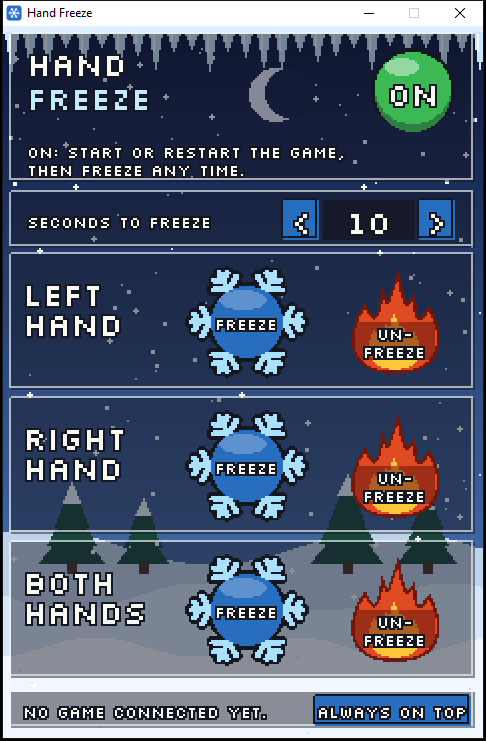
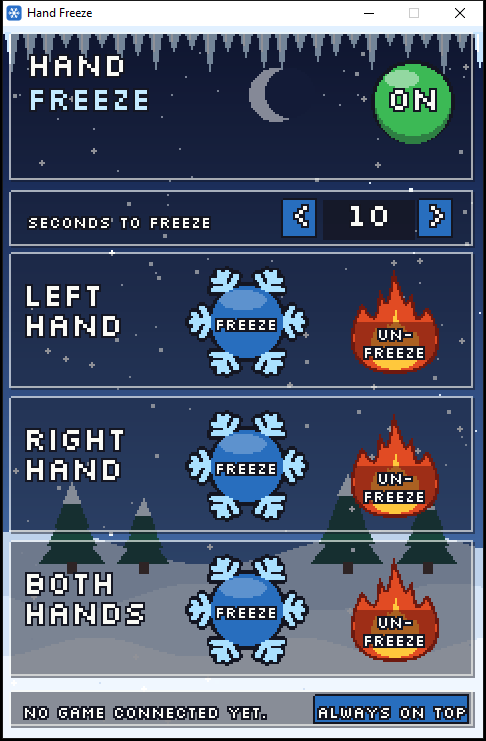
Hand Freeze: fewer words, centred number and arrows, no colour leaks
Only the hint 'Switch on before the game starts' is left (shown while off).
The seconds number and arrows sit centred in their boxes, button fills stay
inside their outlines, the switch sits lower and its ON/OFF is centred.

diff --git a/app/FreezeUi.cs b/app/FreezeUi.cs
@@ -23,7 +23,7 @@ class FreezeUi : Form {
     // ---- canvas and layout (canvas pixels; the window shows each one as SCALE x SCALE screen pixels) --------------
     const int CANVAS_W = 240, CANVAS_H = 356;   // must match make_backgrounds.py W, H
     const int HEADER_H = 74;
-    const int SWITCH_X = 205, SWITCH_Y = 32, SWITCH_R = 19;
+    const int SWITCH_X = 205, SWITCH_Y = 38, SWITCH_R = 19;
     const int SECONDS_Y = 90, BOX_H = 20, MINUS_X = 140, NUMBER_X = 160, NUMBER_W = 46, PLUS_X = 208, ARROW_W = 18;
     const int ROW_Y0 = 114, ROW_H = 72, LABEL_X = 10, FLAKE_X = 122, FLAME_X = 196, FLAKE_R = 28;
     const int FLAME_DROP = 5;                   // the flame sits a little low, so its tall tongues stay inside the row
@@ -263,8 +263,7 @@ class FreezeUi : Form {
         Panel(g, 4, 4, CANVAS_W - 8, HEADER_H);
         Say(g, "HAND", BIG, 12, 9, Paper);
         Say(g, "FREEZE", BIG, 12, 26, Lighter(Ice, 0.3f));
-        Say(g, on ? "On: start or restart the game," : "Off: no game is touched.", SMALL, 12, 58, Paper);
-        Say(g, on ? "then freeze any time." : "Switch on before the game starts.", SMALL, 12, 67, Paper);
+        if (!on) Say(g, "Switch on before the game starts.", SMALL, 12, 63, Paper);   // the one hint (Tefa, 2026-10-13)
         // the round switch
         Color c = Mix(Red, Green, fade);
         bool hot = hover == "switch", down = pressed == "switch";
@@ -273,7 +272,7 @@ class FreezeUi : Form {
         using (var b = new SolidBrush(Mix(c, Ink, 0.35f))) g.FillEllipse(b, cx - r, cy - r + 2, 2 * r, 2 * r);   // rim
         using (var b = new SolidBrush(hot ? Lighter(c, 0.15f) : c)) g.FillEllipse(b, cx - r, cy - r, 2 * r, 2 * r - 2);
         using (var b = new SolidBrush(Lighter(c, 0.45f))) g.FillEllipse(b, cx - r + 5, cy - r + 3, r - 2, r / 2);     // shine
-        Say(g, fade >= 0.5f ? "ON" : "OFF", BIG, cx, cy - 8, Paper, true);
+        Say(g, fade >= 0.5f ? "ON" : "OFF", BIG, cx, cy - 12, Paper, true);
     }
 
     void DrawSeconds(Graphics g) {
@@ -281,16 +280,16 @@ class FreezeUi : Form {
         Say(g, "SECONDS TO FREEZE", SMALL, 12, SECONDS_Y + 3, on ? Paper : Grey(Paper));
         DrawArrowBox(g, MINUS_X, "minus", "<");
         using (var b = new SolidBrush(Color.FromArgb(200, Ink))) g.FillRectangle(b, NUMBER_X, SECONDS_Y - 3, NUMBER_W, BOX_H);
-        Say(g, seconds.ToString(), BIG, NUMBER_X + NUMBER_W / 2, SECONDS_Y - 2, on ? Paper : Grey(Paper), true);
+        Say(g, seconds.ToString(), BIG, NUMBER_X + NUMBER_W / 2, SECONDS_Y - 6, on ? Paper : Grey(Paper), true);
         DrawArrowBox(g, PLUS_X, "plus", ">");
     }
 
     void DrawArrowBox(Graphics g, int x, string id, string arrow) {
         Color c = !on ? Grey(IceDeep) : hover == id ? Lighter(IceDeep, 0.25f) : IceDeep;
         int y = SECONDS_Y - 3 + (pressed == id ? 1 : 0);
-        using (var b = new SolidBrush(c)) g.FillRectangle(b, x, y, ARROW_W, BOX_H);
+        using (var b = new SolidBrush(c)) g.FillRectangle(b, x, y, ARROW_W - 1, BOX_H - 1);   // same size as the outline, so no colour leaks past it
         using (var p = new Pen(Ink)) g.DrawRectangle(p, x, y, ARROW_W - 1, BOX_H - 1);
-        Say(g, arrow, BIG, x + ARROW_W / 2, y + 1, Paper, true);
+        Say(g, arrow, BIG, x + ARROW_W / 2, y - 3, Paper, true);
     }
 
     void DrawRow(Graphics g, Row r) {
@@ -378,7 +377,7 @@ class FreezeUi : Form {
         Say(g, text, SMALL, 10, STATUS_Y - 1, Paper);
         Color pc = pinned ? Green : (hover == "pin" ? Lighter(IceDeep, 0.25f) : IceDeep);
         int px = CANVAS_W - 6 - PIN_W;
-        using (var b = new SolidBrush(pc)) g.FillRectangle(b, px, STATUS_Y - 4, PIN_W, 15);
+        using (var b = new SolidBrush(pc)) g.FillRectangle(b, px, STATUS_Y - 4, PIN_W - 1, 14);
         using (var p = new Pen(Ink)) g.DrawRectangle(p, px, STATUS_Y - 4, PIN_W - 1, 14);
         Say(g, "ALWAYS ON TOP", SMALL, px + PIN_W / 2, STATUS_Y - 1, Paper, true);
     }
